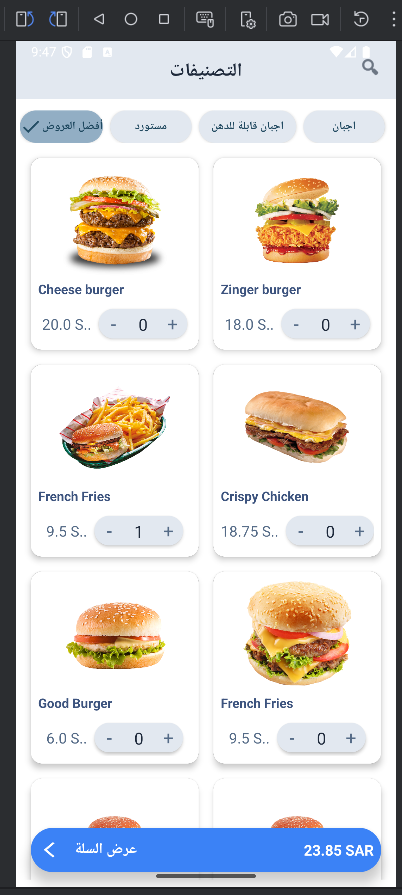
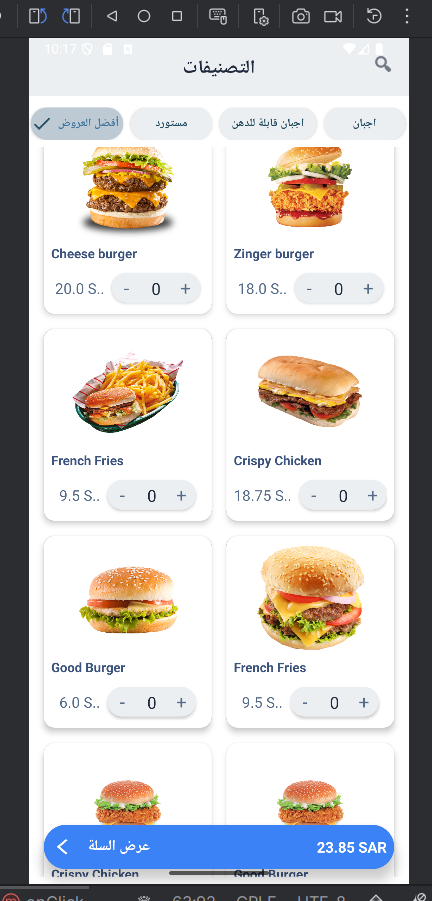
final edits

diff --git a/app/src/main/java/com/exampletafsyr/kartngoapp/ui/MainActivity.java b/app/src/main/java/com/exampletafsyr/kartngoapp/ui/MainActivity.java
@@ -46,7 +46,7 @@ public class MainActivity extends AppCompatActivity {
         binding.btImported.setOnClickListener(new View.OnClickListener() {
             @Override
             public void onClick(View view) {
-                setClickedButton(binding.btImported, binding.btBestOffers, binding.btFattyCheese, binding.btFattyCheese);
+                setClickedButton(binding.btImported, binding.btBestOffers, binding.btCheese, binding.btFattyCheese);
 
             }
         });
@@ -60,7 +60,7 @@ public class MainActivity extends AppCompatActivity {
         binding.btCheese.setOnClickListener(new View.OnClickListener() {
             @Override
             public void onClick(View view) {
-                setClickedButton(binding.btCheese, binding.btImported, binding.btFattyCheese, binding.btFattyCheese);
+                setClickedButton(binding.btCheese, binding.btImported, binding.btBestOffers, binding.btFattyCheese);
             }
         });
         binding.btBestOffers.setOnClickListener(new View.OnClickListener() {
@@ -74,6 +74,7 @@ public class MainActivity extends AppCompatActivity {
     @SuppressLint("ResourceAsColor")
     void setClickedButton(Button b1, Button b2, Button b3, Button b4) {
         b1.setCompoundDrawablesWithIntrinsicBounds(R.drawable.baseline_check_24, 0, 0, 0);
+        b1.setTextColor(ContextCompat.getColor(this, R.color.btn_text_color_clicked));
         b1.setSelected(true);
         setUnClickedButton(b2);
         setUnClickedButton(b3);
@@ -83,6 +84,7 @@ public class MainActivity extends AppCompatActivity {
     @SuppressLint("ResourceAsColor")
     void setUnClickedButton(Button b) {
         b.setCompoundDrawablesWithIntrinsicBounds(0, 0, 0, 0);
+        b.setTextColor(ContextCompat.getColor(this, R.color.btn_text_color));
         b.setSelected(false);
     }
 
